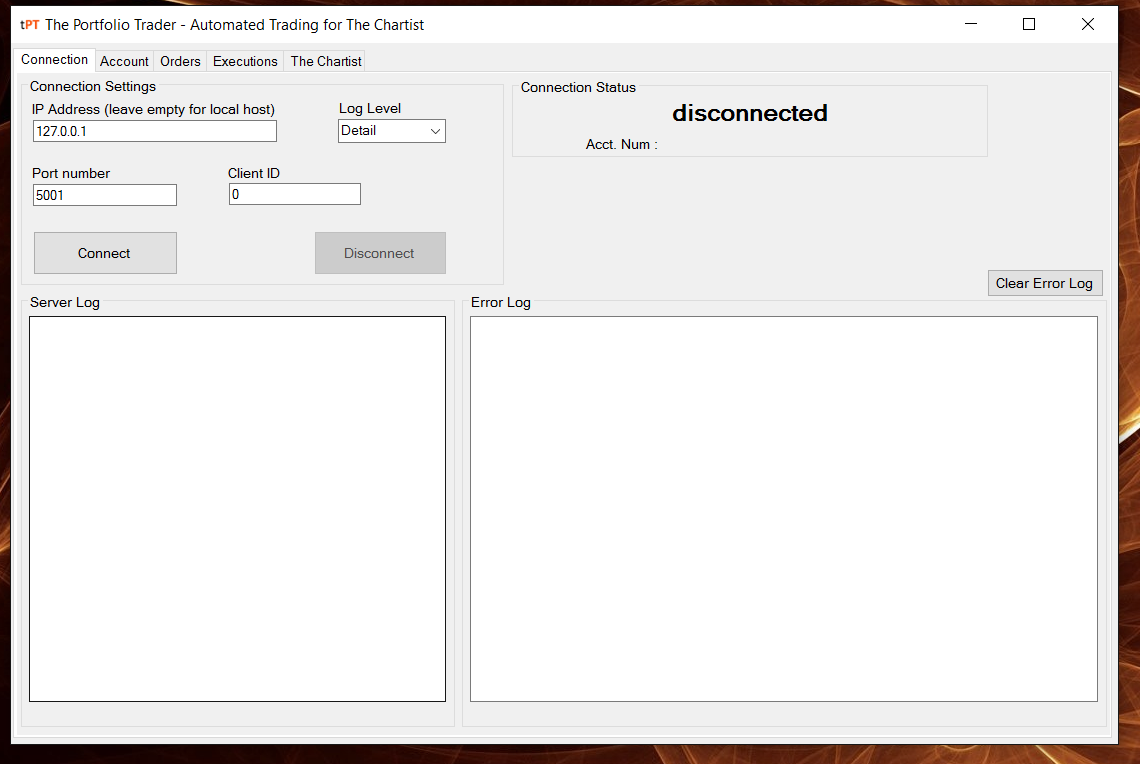
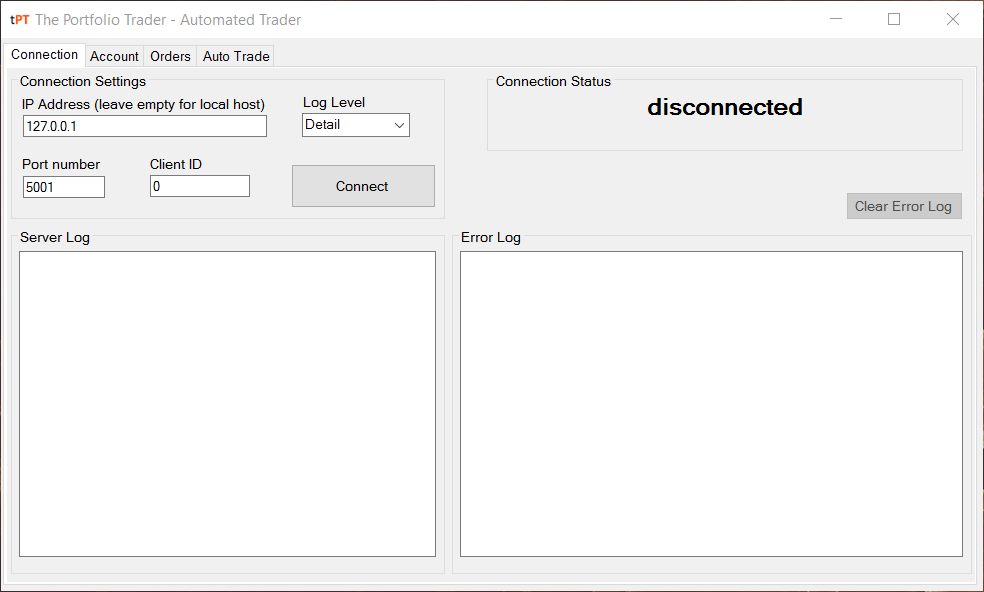
* help updates for version 2

diff --git a/README.md b/README.md
@@ -7,11 +7,14 @@ Automated Trader for The Chartist
 **The software comes with**:
 
 * Host of simplified features for trading with [Interactive Brokers](http://www.interactiverbrokers.com) via IB Gateway API connectivity
+* Facility to handle multiple trading accounts
+* Always in-sync with Interactive Brokers servers
+* Ease of use
 * One click process for downloading, processing, placing and reporting of **The Chartist**'s [US Power Setups](https://www.thechartist.com.au/Benefits/short-term-share-trading.html) (activation license key required)
+* Active monitoring of placed orders
+* Facility to place delayed orders [*coming soon*]
 * Set and forget hands-free feature for performing the one-click process automatically everyday at a designated time [*disabled feature*]
-* Active monitoring of placed orders [*coming soon*]
 
-*Warning: In this version of the software, the orders are not actively monitored. If you are using MARGIN greater than 1.0 please be aware that US HFT orders are not actively monitored. The next version of this software will be shipped with active monitoring feature.*
 
 **Requirements**:
 
@@ -29,7 +32,6 @@ Visit [Automated Trader for The Chartist](http://www.theportfoliotrader.com/down
 > **Note**:
 > * Please use a valid email address while registering to download the software.
 > * License key will be generated and emailed to your email address. You will have to input this license key when prompted during the first run.
-> * The software is made available with single-computer license i.e. locked to one computer.
 > * In case you want to run this software on multiple computers then increase the number of license's required during the registration process or contact info@theportfoliotrader.com for assistance.
 > * Dependency on Internet Explorer is temporary, I have included it so that the user can visualise the website login and file access actions.
 > * _This application should run fine on LINUX and OS X/Mac OS via [Mono](http://www.mono-project.com/). Due to the dependency of this version on Internet Explorer it might be a difficult ask. I have not tested this thoroughly. Contact info@theportfoliotrader.com if you want me to perform a thorough testing on LINUX or OS X/Mac OS. Next version of this software will not have Internet Explorer dependency._
@@ -101,7 +103,7 @@ This provides a simplified user-interface and connectivity to Interactive Broker
  
 * **Connection**
     * Connection status indicator
-    * Connect to IB Gateway by setting IP address, log level, port number and client id including Connect and Disconnect buttons
+    * Connect to IB Gateway by setting IP address, log level, port number and client id including a toggle Connect/Disconnect button
     * Log: Server logs, Error logs, Clear error log button
 
  ![Connection](https://github.com/virusme/Automated-Trader-for-The-Chartist/blob/master/screenshots/tab_connection.png)
@@ -109,33 +111,28 @@ This provides a simplified user-interface and connectivity to Interactive Broker
 <br>
     
 * **Account** 
+    * Select Account from drop-down menu
+	* Subscribe/Unsubscribe toggle button and Clear Account Summary buttons
     * Account number indicator
     * Last sync time indicator
-    * Subscribe, Unsubscribe and Clear Account Summary buttons
     * Summary and Portfolio tabs
-    * Close Position by right-click on Portfolio
+    * Close Position by right-click in Portfolio
 
     ![Account](https://github.com/virusme/Automated-Trader-for-The-Chartist/blob/master/screenshots/tab_account.png)
 
 <br>
 
-* **Order**
-    * Ticker description and Order description (including extra Ticker attributes and Order attributes)
-    * What-If, Place Orders, GLOBAL CANCEL, Clear Orders buttons
+* **Orders**
+    * New Order, Global Cancel, Refresh Live Orders and Trade Log buttons
+	* Safety check for Global Cancel
+	* New Order pop-up window with Basic Order, Extended Attributes, Volatility, Scale and IB Algo settings options including facility to Check Margin
     * Next Order-ID in-sync with IB Gateway
-    * Open Orders and Order Status tab
-    * Cancel Order by right-click on Open Orders
+    * Live Orders and Trade Log tab
+    * Modify or Cancel Order by right-click in Live Orders
 
     ![Orders](https://github.com/virusme/Automated-Trader-for-The-Chartist/blob/master/screenshots/tab_orders.png)
-
-<br>
-
-* **Executions**
-    * Executions request settings
-    * Request Executions and Clear Executions button
-    * Reports tab
-
-    ![Executions](https://github.com/virusme/Automated-Trader-for-The-Chartist/blob/master/screenshots/tab_executions.png)
+	
+	![New Order](https://github.com/virusme/Automated-Trader-for-The-Chartist/blob/master/screenshots/tab_orders_neworder.png)
 
 <br>
     
@@ -158,23 +155,34 @@ This provides a simplified user-interface and connectivity to Interactive Broker
 ###The Chartist
 This provides a user-interface to alter settings for trading using [**The Chartist**](https://www.thechartist.com.au)'s [**US Power Setups**](https://www.thechartist.com.au/Benefits/short-term-share-trading.html) and to perform one-click trading. All settings are stored locally on your computer, using strong encryption where required. Every time the application is loaded, these settings are retrieved for your convenience.
 
+* Select your trading strategy from a drop-down menu
+<br>
+
+
+* **Web Settings**
+    * Your login details for **The Chartist**'s [US Power Setups](https://www.thechartist.com.au/Benefits/short-term-share-trading.html)
+<br>
+
+	
 * **Trade Settings**
    * Set paths for downloaded files
    * Manage your trade details such as exchange, position size, margin, etc.
-
 <br>
-   
-* **The Chartist Login**
-    * Your login details for **The Chartist**'s [US Power Setups](https://www.thechartist.com.au/Benefits/short-term-share-trading.html)
 
 <br>
 
-* **Report Settings**
+* **Report Settings** [Optional Settings]
     * Set your **To** and **From** email and its mail settings for report delivery
 
 <br>
+
+* ** Advanced** [Optional Settings]
+    * Set maximum positions for Active Monitoring, etc
+
+<br>
+
     
-* **Process**
+* **One-Click Process**
     * One-Click processing for downloading, order management, placing orders and report generation
 
 <br>
@@ -183,7 +191,7 @@ This provides a user-interface to alter settings for trading using [**The Charti
 	* List of day's orders and log diary of orders
 	* Process log to keep you up-to-date on the current process pipeline
  
-  ![Auto Trade](https://github.com/virusme/Automated-Trader-for-The-Chartist/blob/master/screenshots/tab_tc.png)
+  ![Auto Trade](https://github.com/virusme/Automated-Trader-for-The-Chartist/blob/master/screenshots/tab_autotrade.png)
 
 <br>
 * **Safety Checks**
@@ -197,6 +205,10 @@ This provides a user-interface to alter settings for trading using [**The Charti
 	* Your portfolio OPEN positions are matched with [The Chartist](https://www.thechartist.com.au)'s OPEN positions:
 		* if your portfolio has an OPEN position that [The Chartist](https://www.thechartist.com.au) does not have, then a SELL order is generated to close that position
 		* if your portfolio **does not** have an OPEN position that [The Chartist](https://www.thechartist.com.au) has, then **BUY ORDER IS NOT GENERATED**
+	* Active Monitoring: 
+	    * Will perform *Active Monitoring* if **Max. Pos** is greater than **0**
+        * *Active Monitoring* will Cancel unfilled orders if number of filled orders reach your maximum imposed limited
+        * *Active Monitoring* will generate and place SELL orders if number of filled orders exceed your maximum imposed limit.The filled orders that are to be replaced on the market as SELL orders are selected based on their time-stamps i.e. last filled orders are placed as SELL orders first.   		
   
   
 :arrow_double_up: [Back to Top](#table-of-contents)
